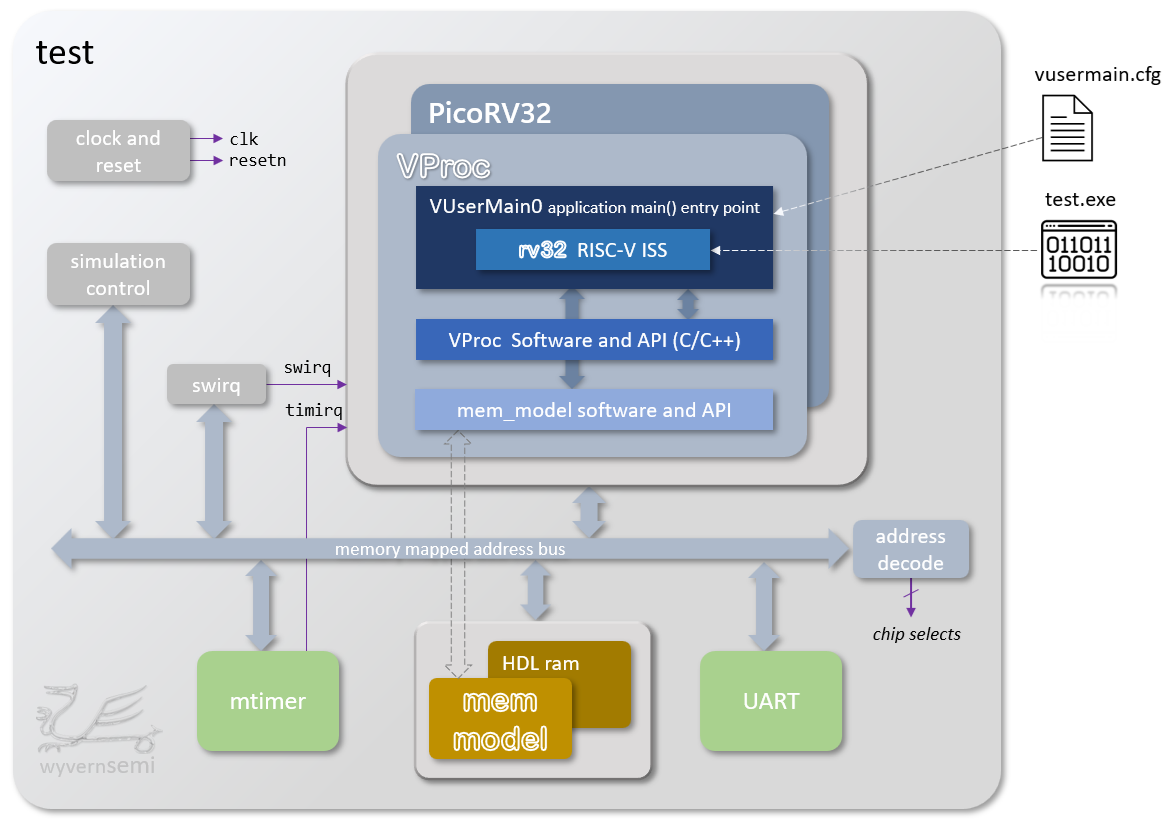
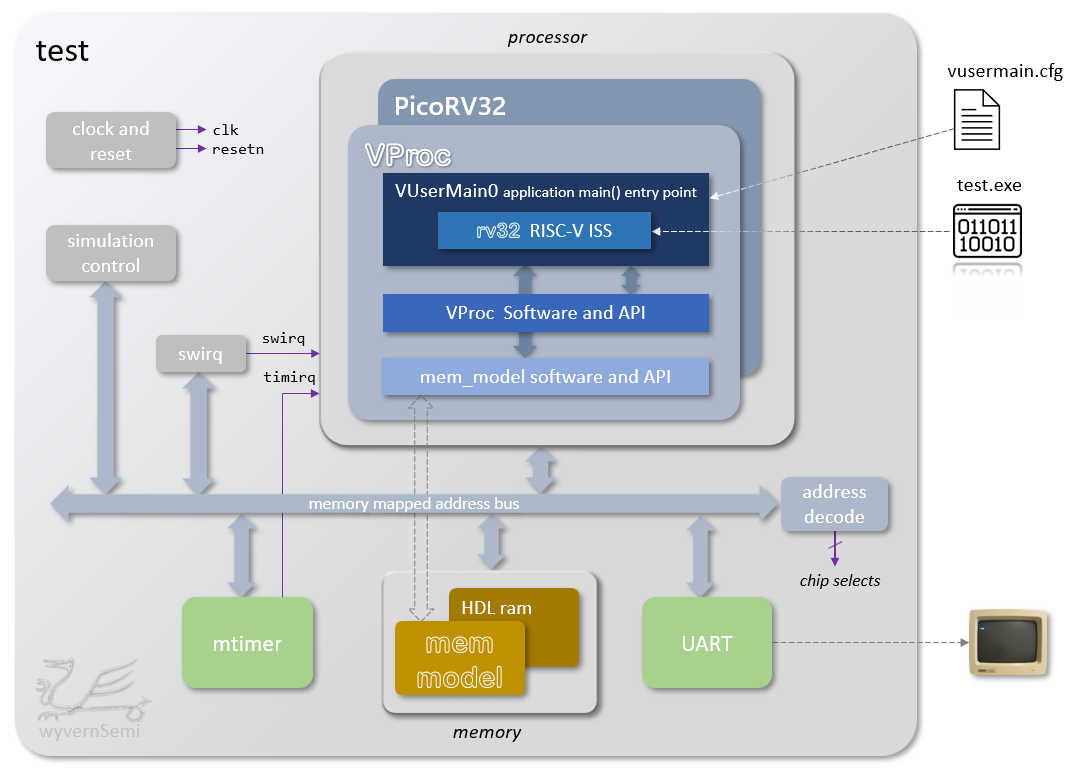
Updates to README.md for PicoRV32 comparison test bench

diff --git a/iss/cosim/testpicorv32/src/VUserMain0.cpp b/iss/cosim/testpicorv32/src/VUserMain0.cpp
@@ -115,7 +115,6 @@ int ext_mem_access(const uint32_t addr, uint32_t& data, const int type, const rv
 #ifdef USE_INTERNAL_MEMORY
 
 # ifndef INT_MEM_TOP
-jdklflask;
 # define INT_MEM_TOP 0x00100000
 # endif
 

diff --git a/iss/cosim/testpicorv32/README.md b/iss/cosim/testpicorv32/README.md
@@ -4,24 +4,24 @@
 
 ## Dependencies
 
-  This test is dependent on the following repositories to be located in the same directory as this repository, as defined by
-  `$(GITROOT)` make file variable:
+  This test is dependent on the following repositories to be located in the same directory as this repository, as defined by the
+  `$(GITROOT)` variable in `makefile`:
   
 * vproc    : https://github.com/wyvernSemi/vproc
 * mem_model: https://github.com/wyvernSemi/mem_model
 * picorv32 : https://github.com/YosysHQ/picorv32
   
-The make file will attempt to clone any unfound repository into `$(GITROOT)`. Modify this variable as required.
+The make file will attempt to clone any unfound repository into `$(GITROOT)`. Modify this variable if required.
 
 ## Test Bench Architecture
 
-The diagram below shows a summary of the test bench architecture. The main processor can be selected between a *VProc* virtual processor running the *rv32* ISS or a PcioRV32 RTL implementation in Verilog, selected on a test bench parameter (see [next section](#user-defined-generics)). The selected processor has a genertic memory mapped address bus on which is attached a timer, a UART and some memory. The memory can be selected with a generic to be either a behavioural HDL memory (64 KBytes) or the *mem_model* co-simulation VIP. Locally, logic implements a software interrupt function, which is memory mapped on the bus, and some simulation control, where a "halt" function is mapped into the address function to allows the running RISC-V program to stop the simulation. Chip selects for all these memory mapped functions are also implemented in the top level test bench, along with functionality to generate a clock at 100MHz and an active low reset.
+The diagram below shows a summary of the test bench architecture. The main processor can be selected between a *VProc* virtual processor running the *rv32* ISS or a PcioRV32 RTL implementation in Verilog, selected on a test bench parameter (see [next section](#user-defined-generics)). The selected processor has a generic memory mapped address bus on which is attached a timer, a UART and some memory. The memory can be selected with a generic to be either a behavioural HDL memory (64 KBytes) or the *mem_model* co-simulation VIP. Locally, logic implements a software interrupt function, which is memory mapped on the processor's address bus, and some simulation control where a "halt" function is mapped into the address bus to allows the running RISC-V program to stop the simulation. Chip selects for all these memory mapped functions are also implemented in the top level test bench, along with functionality to generate a clock at 100MHz and an active low reset.
 
-<p align="center"><img src="images/picorv32_tb.png"></p>
+<p align="center"><img src="images/picorv32_tb.png" width=900></p>
 
 ## User Defined Generics
 
-The `$(USRSIMFLAGS)` can be overridden on the command line to change the simulation run, with the shell command:
+The `$(USRSIMFLAGS)` can be overridden on the command line, when running `make`, to change the simulation run, using the shell command:
 ```
   make USRSIMFLAGS="<flags>"
 ```
@@ -31,12 +31,12 @@ Use `USRSIMFLAGS="-gUSE_MEM_MODEL=[0|1]"` to select between HDL mem or *mem_mode
 
 ## Running the simulation
 
-The simplest means to build and run a simulation is to execute the following command in the console:
+The simplest means to build and run a simulation is to execute the following command in a console from this directory:
 
 ```
   make run
 ```
-This will run a simulation using the *VProc*/*rv32* processor and the HDL memory, executing a `test[.exe]` RISC-V programcompiled from `test/test.s`. Other options are available and can be display with a `make help` command, giving:
+This will build all the required files and run a simulation using the *VProc*/*rv32* processor and the HDL memory, executing a `test[.exe]` RISC-V program compiled from `test/test.s`. Other options are available and can be displayed with a `make help` command, giving:
 
 ```
   make help          Display this message
@@ -45,18 +45,17 @@ This will run a simulation using the *VProc*/*rv32* processor and the HDL memory
   make run           Build and run batch simulation
   make rungui/gui    Build and run GUI simulation
   make clean         clean previous build artefacts
-
 ```
 
 ### vusermain.cfg
 
-Control and configuration of the *rv32* ISS can be done in the `vusermain.cfg` file. This acts lie a virtual command line option input, and the default file has the follwing entry:
+Control and configuration of the *rv32* ISS can be done with the `vusermain.cfg` file. This acts like a virtual command line option input, and the default file has the following entry:
 
 ```
   vusermain0 -HT -b -A 0x00000040 -t test.exe
 ```
 
-There are many more options to configure the ISS, and adding a `-h` to the `vusermain,.cfg` file will, instead of running the program, will give the following output:
+There are many more options to configure the ISS, and adding a `-h` to the `vusermain.cfg` file will, instead of running the program, give the following output:
 
 ```
 Usage: vusermain0 -t <test executable> [-hHebdrg][-n <num instructions>]
@@ -78,17 +77,39 @@ Usage: vusermain0 -t <test executable> [-hHebdrg][-n <num instructions>]
    -p Specify remote GDB port number (default 49152)
    -S Specify start address (default 0)
    -h display this help message
-
 ```
 
 These option allow for such things as displaying runtime diassembled output, conditions for halting the program execution and for connecting a `gdb` debugger.
 
 ## The Test Bench Memory Map
 
-Memory start from address `0x00000000`, with the HDL memory model top address being `0x00010000`. The diagram below shows how the peripherals are mapped into the address space.
+Memory for the program and data starts from address `0x00000000`, with the HDL memory model top address being `0x00010000`. The diagram below shows how the peripherals are mapped into the address space.
 
-<p align="center"><img src="images/iss_mmap.png" width=800></p>
+<p align="center"><img src="images/iss_mmap.png" width=600></p>
 
+## The Supplied Test Program
+
+The source code in `src/test.s` is a simple RISC-V assembly language program to exercicse the RTL and co-simulation. Its purpose is to measure simulation executime between the *PicoRV32* RTL implementation against the running a co-simulation setup of *VProc* and the *rv32* ISS. After initialisation, the program has a main loop to execute a number of time, as defined by `MEMLOOPCOUNT`, doing a store word write to memory at an incrementing address, and then reading it back and verifying. After the load word read it branches to some more code which has its own loop to decrement a count in a loop, as defined by `COMPLOOPCOUNT`, before jumping back to the main loop. The purpose here is to have a main loop that is is load/store intensive, and a branch to a sub-loop which is compute intensive. By changing the ratio between `MEMLOOPCOUNT` and `COMPLOOPCOUNT` the program becomes more or less memory I/O oriented. This allows the measurement of execution time to indicate an indication of speed up using the co-simulation model versus a pure RTL implemenation of a processor.
+
+### Initial Results
+
+Tests were run on a Questa Altera Starter FPGA Edition-64 2025.2 simulator running on a Windows PC with an i5-8400 @2.8GHz. The ratios rather than the absolute times are the important measurement here, and execution speeds will vary between simulators and with other factors. The main point is to measure any speed advantages to using a co-simulation model over RTL.
+
+When using the co-simulation model, the *rv32* ISS has internal memory (up to 1MBytes) from which the program can be run, or it can fetch instructions from the simulated memory over the address bus in the HDL&mdash;something the RTL model has to do. There are speed up advantages to using internal memory and over an HDL model, and both these scenarios were measured. By default, *rv32* does not use its internal memory. To enable this, the `USRFLAGS` variable in `makefile` can be set, on the command line or by updating `makefile`, with, for example, `-DUSE_INTERNAL_MEMORY -DINT_MEM_TOP=0x1000`. If updating these settings, a `make clean` before running the simulation is advised.
+
+The table below shows the results obtained, as reported by the simulator for execution time of the simulation:
+
+| MEMLOOPCOUNT | COMPLOOPCOUNT | PicoRV32 time | rv32 external | rv32 internal |
+|--------------|---------------|---------------|---------------|---------------|
+| 10000        | 10            | 1m47          | 2m15          | 0m33          |
+| 1000         | 100           | 1m20          | 1m32          | 0m14          |
+| 100          | 1000          | 1m17          | 1m28          | 0m09          |
+
+These results seem to indicate that, for the RTL simulations, speed up as the program becomes more compute intensive only has a steady improvement, probably due to less signal changes when a bus access occurs. With co-simulated *rv32* and external memory, the results are <ins>slightly worse</ins>, probably due to VPI calling overheads. When using internal memory to run code, however, there is clear speed advantage of between 3 and 12 times, depending on the mix of I/O to compute. Also, for the *rv32* and internal memory, the number of instructions per second were measured and this was between 23 and 126 KIPS for the scenarios above.
+
+For many applications, the main advantage of co-simulation is to run the developing embedded application software along with the devloping RTL logic. Here, the testing emphasises interaction between software and logic registers rather fetching instructions from the FPGA memory sub-system and reading and writing program data. The test bench can thus be set up to use internal memory for program/data accesses and gain the speed (and other) advantages of co-simulation. The *rv32* ISS can be configured to have an instruction timing model to match the target processor and can have appropriate delays for accesses to memory, advancing the simulation for the required number of cycles, even if instruction fetches and program data reads and writes do not appear on the address bus in the HDL simulation.
+
+These measurements are indicitive but not universal and are likely to vary as more application RTL is added to a simulation and the contribution to simulation execution time of the processing element becomes a smaller fraction of the overall time.
 
 ## Files in this Directory
 
